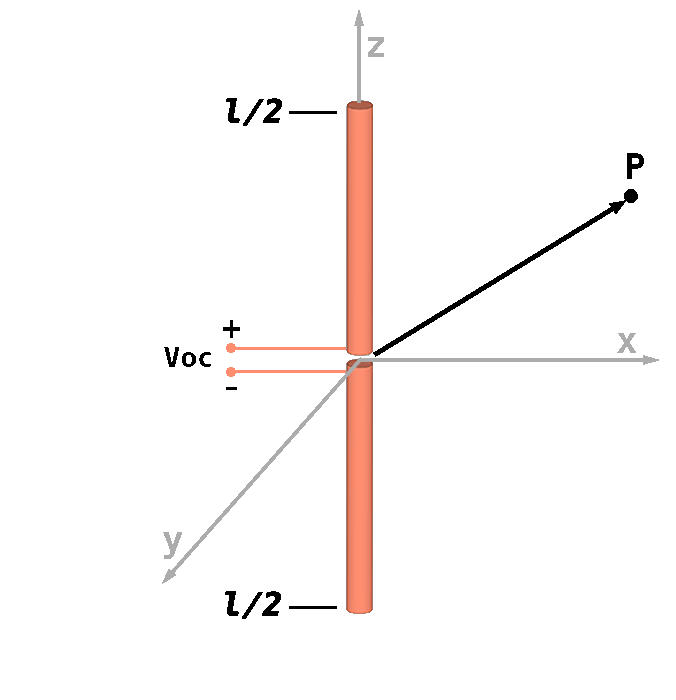
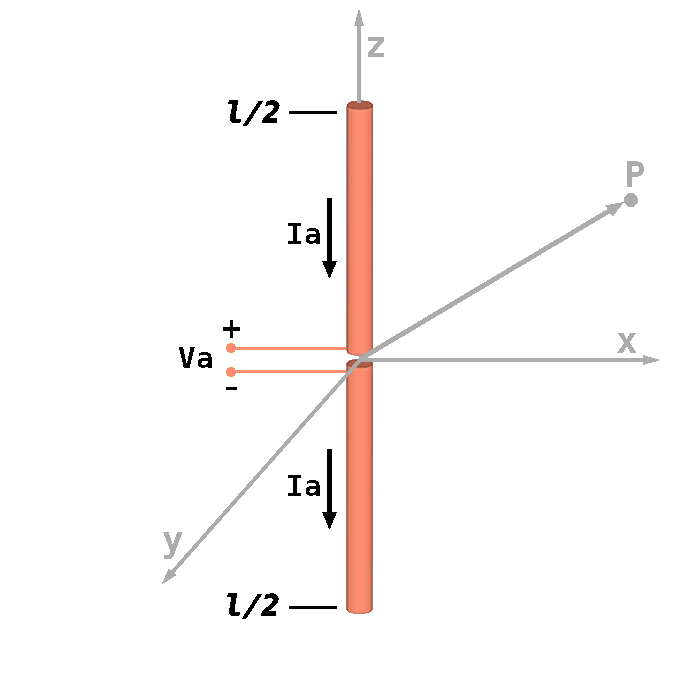
Added new useful fields and formulas

diff --git a/src/main/java/dipole/rf/calculator/model/DipoleModel.java b/src/main/java/dipole/rf/calculator/model/DipoleModel.java
@@ -16,9 +16,29 @@ public class DipoleModel {
      */
     private final String l;
     /**
+     * Half-wave dipole length adjusted to remove reactance (m)
+     */
+    private final String lAdjusted;
+    /**
+     * Half-wave dipole single element length (m)
+     */
+    private final String element;
+    /**
+     * Wavelength (m)
+     */
+    private final String lambda;
+    /**
      * Antenna feed current (A)
      */
     private final String Ia;
+    /**
+     * Antenna feed voltage (V)
+     */
+    private final String Va;
+    /**
+     * Far-field region start
+     */
+    private final String farField;
     /**
      * Electric field on Z axis at a point r (V/m)
      */
@@ -44,32 +64,44 @@ public class DipoleModel {
     /**
      * Initialize the model.
      *
-     * @param freq_simple source frequency (Ghz)
-     * @param Ptx         antenna transmitted power
-     * @param r           distance point from the transmit antenna
+     * @param freq_simple      source frequency (Ghz)
+     * @param Ptx              antenna transmitted power
+     * @param r                distance point from the transmit antenna
+     * @param wallsAttenuation attenuation from the walls
      */
-    public DipoleModel(double freq_simple, double Ptx, double r) {
+    public DipoleModel(double freq_simple, double Ptx, double r, double wallsAttenuation) {
 
         double freq = freq_simple * 1E9;
         Result Ptxdbm = RFUtils.wToDbm(Ptx);
         Result l = RFUtils.getDipoleSize(freq);
-        Result Ia = RFUtils.getCurrent(Ptx);
+        Result lAdjusted = new Result(l.value() * 0.95);
+        Result element = new Result(lAdjusted.value() / 2);
+        double ptxAttenuated = Ptx * RFUtils.dbToRatio((-1) * wallsAttenuation);
+        Result Ia = RFUtils.getAntennaFeedCurrent(Ptx);
+        Result IaAttenuated = RFUtils.getAntennaFeedCurrent(ptxAttenuated);
+        Result Va = RFUtils.getAntennaFeedVoltage(Ptx);
         Result lambda = RFUtils.getLambda(freq);
+        Result farField = new Result((Math.pow(lAdjusted.value(), 2) * 2) / lambda.value());
         Result k = RFUtils.getWaveNumber(lambda.value());
-        Result Ez = RFUtils.computeEz(Ia.value(), k.value(), l.value(), r);
-        Result VOC = RFUtils.computeVOC(Ia.value(), k.value(), l.value(), r);
+        Result Ez = RFUtils.computeEz(IaAttenuated.value(), k.value(), l.value(), r);
+        Result VOC = RFUtils.computeVOC(IaAttenuated.value(), k.value(), l.value(), r);
         Result Pload = RFUtils.computePload(VOC.value());
         Result Prxdbm = RFUtils.wToDbm(Pload.value());
         Result attenuation = new Result(Math.abs(Prxdbm.value() - Ptxdbm.value()));
 
         this.Ptxdbm = Ptxdbm.toDecimal("dbm");
         this.l = l.toEngineering("m");
+        this.lAdjusted = lAdjusted.toEngineering("m");
+        this.element = element.toEngineering("m");
         this.Ia = Ia.toEngineering("A");
+        this.Va = Va.toEngineering("V");
         this.Ez = Ez.toEngineering("V/m");
         this.VOC = VOC.toEngineering("V");
         this.Pload = Pload.toEngineering("W");
         this.Prxdbm = Prxdbm.toDecimal("dbm");
         this.attenuation = attenuation.toDecimal("db");
+        this.farField = farField.toEngineering("m");
+        this.lambda = lambda.toEngineering("m");
 
     }
 
@@ -83,6 +115,10 @@ public class DipoleModel {
 
     public String getIa() {
         return Ia;
+    }
+
+    public String getVa() {
+        return Va;
     }
 
     public String getEz() {
@@ -103,5 +139,21 @@ public class DipoleModel {
 
     public String getAttenuation() {
         return attenuation;
+    }
+
+    public String getlAdjusted() {
+        return lAdjusted;
+    }
+
+    public String getElement() {
+        return element;
+    }
+
+    public String getFarField() {
+        return farField;
+    }
+
+    public String getLambda() {
+        return lambda;
     }
 }

diff --git a/src/test/java/dipole/rf/calculator/CalculatorControllerTest.java b/src/test/java/dipole/rf/calculator/CalculatorControllerTest.java
@@ -38,16 +38,51 @@ public class CalculatorControllerTest {
         robot.clickOn(button);
 
         Assertions.assertThat(robot.lookup("#Ia").queryAs(Label.class)).hasText("52.31mA");
-        Assertions.assertThat(robot.lookup("#Ptxdbm").queryAs(Label.class)).hasText("20dbm");
-        Assertions.assertThat(robot.lookup("#l").queryAs(Label.class)).hasText("62.46mm");
+        Assertions.assertThat(robot.lookup("#Ptxdbm").queryAs(Label.class)).hasText("20.0dbm");
+        Assertions.assertThat(robot.lookup("#lAdjusted").queryAs(Label.class)).hasText("59.33mm");
         Assertions.assertThat(robot.lookup("#Ez").queryAs(Label.class)).hasText("313.67mV/m");
         Assertions.assertThat(robot.lookup("#VOC").queryAs(Label.class)).hasText("12.47mV");
         Assertions.assertThat(robot.lookup("#Pload").queryAs(Label.class)).hasText("266.05nW");
-        Assertions.assertThat(robot.lookup("#Prxdbm").queryAs(Label.class)).hasText("-36dbm");
-        Assertions.assertThat(robot.lookup("#attenuation").queryAs(Label.class)).hasText("56db");
+        Assertions.assertThat(robot.lookup("#Prxdbm").queryAs(Label.class)).hasText("-35.8dbm");
+        Assertions.assertThat(robot.lookup("#attenuation").queryAs(Label.class)).hasText("55.8db");
+        Assertions.assertThat(robot.lookup("#Va").queryAs(Label.class)).hasText("3.82V");
+        Assertions.assertThat(robot.lookup("#farField").queryAs(Label.class)).hasText("56.37mm");
+        Assertions.assertThat(robot.lookup("#element").queryAs(Label.class)).hasText("29.67mm");
+        Assertions.assertThat(robot.lookup("#lambda").queryAs(Label.class)).hasText("124.91mm");
+
+
         Assertions.assertThat(robot.lookup("#status").queryAs(Label.class)).hasText("Done");
 
     }
+    void testCalculateAllWithAttenuation(FxRobot robot) {
+        Assertions.assertThat(robot.lookup("#freq").queryAs(TextField.class)).hasText("2.4");
+        Assertions.assertThat(robot.lookup("#Ptx").queryAs(TextField.class)).hasText("0.1");
+        Assertions.assertThat(robot.lookup("#r").queryAs(TextField.class)).hasText("10");
+        Assertions.assertThat(robot.lookup("#attenuation").queryAs(TextField.class)).hasText("5");
+
+        Button button = robot.lookup("#calculate").queryAs(Button.class);
+        robot.clickOn(button);
+
+        Assertions.assertThat(robot.lookup("#Ia").queryAs(Label.class)).hasText("52.31mA");
+        Assertions.assertThat(robot.lookup("#Ptxdbm").queryAs(Label.class)).hasText("20.0dbm");
+        Assertions.assertThat(robot.lookup("#lAdjusted").queryAs(Label.class)).hasText("59.33mm");
+        Assertions.assertThat(robot.lookup("#Ez").queryAs(Label.class)).hasText("176.39mV/m");
+        Assertions.assertThat(robot.lookup("#VOC").queryAs(Label.class)).hasText("7.01mV");
+        Assertions.assertThat(robot.lookup("#Pload").queryAs(Label.class)).hasText("84.13nW");
+        Assertions.assertThat(robot.lookup("#Prxdbm").queryAs(Label.class)).hasText("-34.8dbm");
+        Assertions.assertThat(robot.lookup("#attenuation").queryAs(Label.class)).hasText("60.8db");
+        Assertions.assertThat(robot.lookup("#Va").queryAs(Label.class)).hasText("3.82V");
+        Assertions.assertThat(robot.lookup("#farField").queryAs(Label.class)).hasText("56.37mm");
+        Assertions.assertThat(robot.lookup("#element").queryAs(Label.class)).hasText("29.67mm");
+        Assertions.assertThat(robot.lookup("#lambda").queryAs(Label.class)).hasText("124.91mm");
+
+
+        Assertions.assertThat(robot.lookup("#status").queryAs(Label.class)).hasText("Done");
+
+    }
+
+
+
 
     @Test
     void testInvalidInput(FxRobot robot) {

diff --git a/src/main/java/dipole/rf/calculator/CalculatorController.java b/src/main/java/dipole/rf/calculator/CalculatorController.java
@@ -45,15 +45,35 @@ public class CalculatorController {
     @FXML
     private Label Ia;
     /**
+     * Antenna feed voltage (V)
+     */
+    @FXML
+    private Label Va;
+    /**
      * Antenna transmitted power (dbm)
      */
     @FXML
     private Label Ptxdbm;
     /**
-     * Half-wave dipole length (m)
+     * Half-wave dipole length adjusted to remove reactance(m)
      */
     @FXML
-    private Label l;
+    private Label lAdjusted;
+    /**
+     * Far-field region start (m)
+     */
+    @FXML
+    private Label farField;
+    /**
+     * Wavelength (m)
+     */
+    @FXML
+    private Label lambda;
+    /**
+     * Half-wave dipole single element length (m)
+     */
+    @FXML
+    private Label element;
     /**
      * Calculations status
      */
@@ -74,6 +94,11 @@ public class CalculatorController {
      */
     @FXML
     private TextField r;
+    /**
+     * Attenuation from the walls (m)
+     */
+    @FXML
+    private TextField wallsAttenuation;
 
     /**
      * Initialize components before use.
@@ -91,17 +116,22 @@ public class CalculatorController {
             double freq = Double.parseDouble(this.freq.getText().trim());
             double Ptx = Double.parseDouble(this.Ptx.getText().trim());
             double r = Double.parseDouble(this.r.getText().trim());
+            double wallsAttenuation = Double.parseDouble(this.wallsAttenuation.getText().trim());
 
-            DipoleModel dipoleModel = new DipoleModel(freq, Ptx, r);
+            DipoleModel dipoleModel = new DipoleModel(freq, Ptx, r, wallsAttenuation);
 
             this.Ptxdbm.setText(dipoleModel.getPtxdbm());
-            this.l.setText(dipoleModel.getL());
+            this.lAdjusted.setText(dipoleModel.getlAdjusted());
+            this.element.setText(dipoleModel.getElement());
             this.Ia.setText(dipoleModel.getIa());
+            this.Va.setText(dipoleModel.getVa());
             this.Ez.setText(dipoleModel.getEz());
             this.VOC.setText(dipoleModel.getVOC());
             this.Pload.setText(dipoleModel.getPload());
             this.Prxdbm.setText(dipoleModel.getPrxdbm());
             this.attenuation.setText(dipoleModel.getAttenuation());
+            this.farField.setText(dipoleModel .getFarField());
+            this.lambda.setText(dipoleModel.getLambda());
 
             success();
         } catch (Exception e) {

diff --git a/src/main/java/dipole/rf/calculator/utils/RFUtils.java b/src/main/java/dipole/rf/calculator/utils/RFUtils.java
@@ -31,7 +31,6 @@ public class RFUtils {
      * Half-wave dipole gain
      */
     public static final double GTX = 1.642;
-    public static final double GRX = GTX;
 
     /**
      * Calculate wavelength (m)
@@ -69,8 +68,18 @@ public class RFUtils {
      * @param power input power
      * @return Result
      */
-    public static Result getCurrent(double power) {
+    public static Result getAntennaFeedCurrent(double power) {
         return new Result(Math.sqrt(2 * power / R_RAD));
+    }
+
+    /**
+     * Calculate antenna feed Voltage (V)
+     *
+     * @param power input power
+     * @return Result
+     */
+    public static Result getAntennaFeedVoltage(double power) {
+        return new Result(Math.sqrt(power * 2 * R_RAD));
     }
 
     /**
@@ -126,6 +135,10 @@ public class RFUtils {
      */
     public static Result wToDbm(double power) {
         return new Result(10 * Math.log10(power / 1E-3));
+    }
+
+    public static double dbToRatio(double db) {
+        return Math.pow(10, db / 10);
     }
 
 }

diff --git a/src/main/java/dipole/rf/calculator/utils/Result.java b/src/main/java/dipole/rf/calculator/utils/Result.java
@@ -26,7 +26,7 @@ public record Result(double value) {
      * @return converted result string
      */
     public String toDecimal(final String unitOfMeasure) {
-        return String.format("%.0f", value) + unitOfMeasure;
+        return String.format("%.1f", value) + unitOfMeasure;
     }
 
     /**
